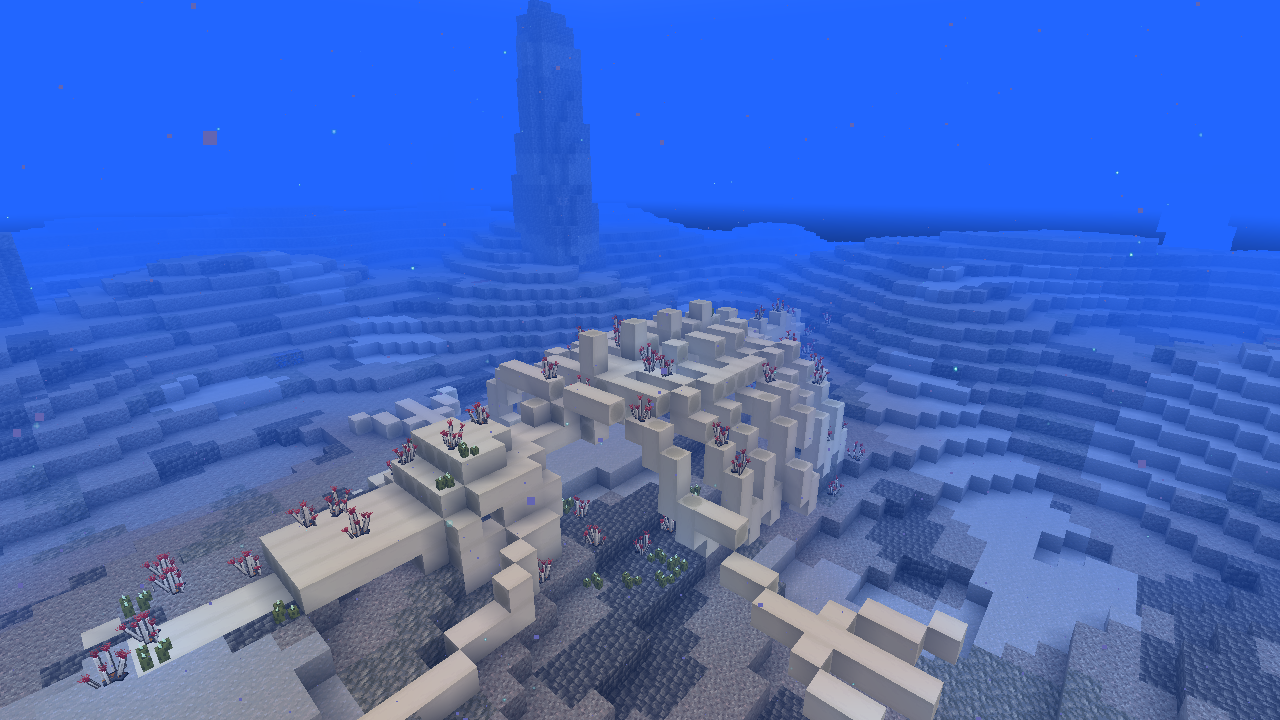
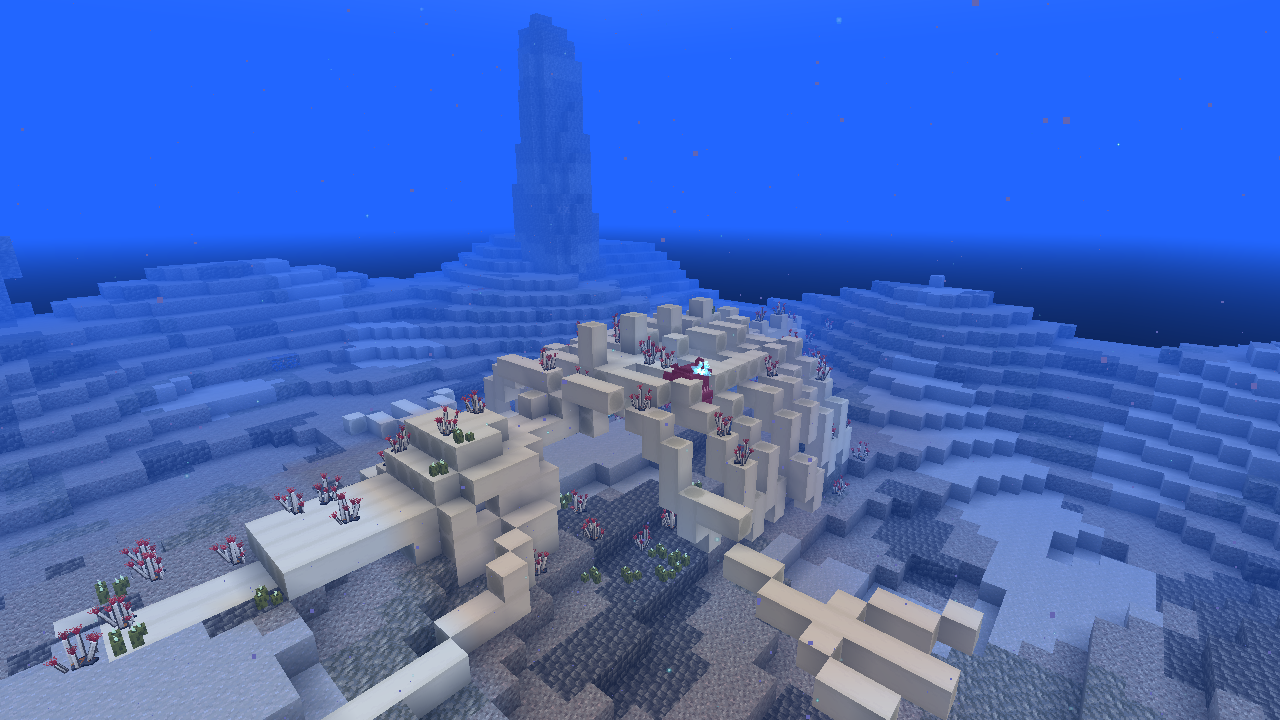
Ocean world: a monument wing's lit hall and chests, and the whale skeleton with its anglerfish, shot in the real client; the harness finds the wing view by line of sight
Claude-Session: https://claude.ai/code/session_016xGrUtxvg6MUjyoz7Uxi84

diff --git a/mods/winterworks/src/main/java/dev/lowpix/winterworks/client/ocean/OceanShots.java b/mods/winterworks/src/main/java/dev/lowpix/winterworks/client/ocean/OceanShots.java
@@ -345,7 +345,7 @@ final class OceanShots {
         for (int i = 1; i <= n; i++) {
             wet += water(level, eye.add(look.subtract(eye).scale(i / (n + 1.0)))) ? 1 : 0;
         }
-        return wet >= n - 1;
+        return wet >= n - 3;
     }
 
     /** Whether `eye` is in open water and most of the way to `look` is water too. */
@@ -617,9 +617,11 @@ final class OceanShots {
                 int design = ((dev.lowpix.winterworks.mixin.ocean.WingRoomAccessor) p).ww$mainDesign();
                 double[] chest = design == 0 ? new double[]{10.5, 1.5, 14.5} : new double[]{11.5, 0.5, 16.5};
                 Vec3 target = MonumentRework.worldVec(p, chest[0], chest[1], chest[2]);
-                for (double[] o : new double[][]{{0, 3, -7}, {-4, 3, -6}, {4, 3, -6}, {0, 2, -5}, {-6, 2.5, -2}, {6, 2.5, -2}, {0, 4, -9}}) {
+                for (double[] o : new double[][]{{0, 3, -7}, {-4, 3, -6}, {4, 3, -6}, {0, 2, -5}, {-6, 2.5, -2}, {6, 2.5, -2}, {0, 4, -9},
+                        {0, 2.5, -3}, {-3, 2.5, -3}, {3, 2.5, -3}, {0, 5, -4}, {-2, 1.5, -4}, {2, 1.5, -4}}) {
                     Vec3 eye = MonumentRework.worldVec(p, chest[0] + o[0], chest[1] + o[1], chest[2] + o[2]);
                     if (!VIEWS.containsKey("monument_wing") && water(level, eye) && roofed(level, eye) && clearLine(level, eye, target)) {
+                        Winterworks.LOG.info("oceanshots: wing view from offset {}", java.util.Arrays.toString(o));
                         VIEWS.put("monument_wing", new Vec3[]{eye, target});
                     }
                 }
